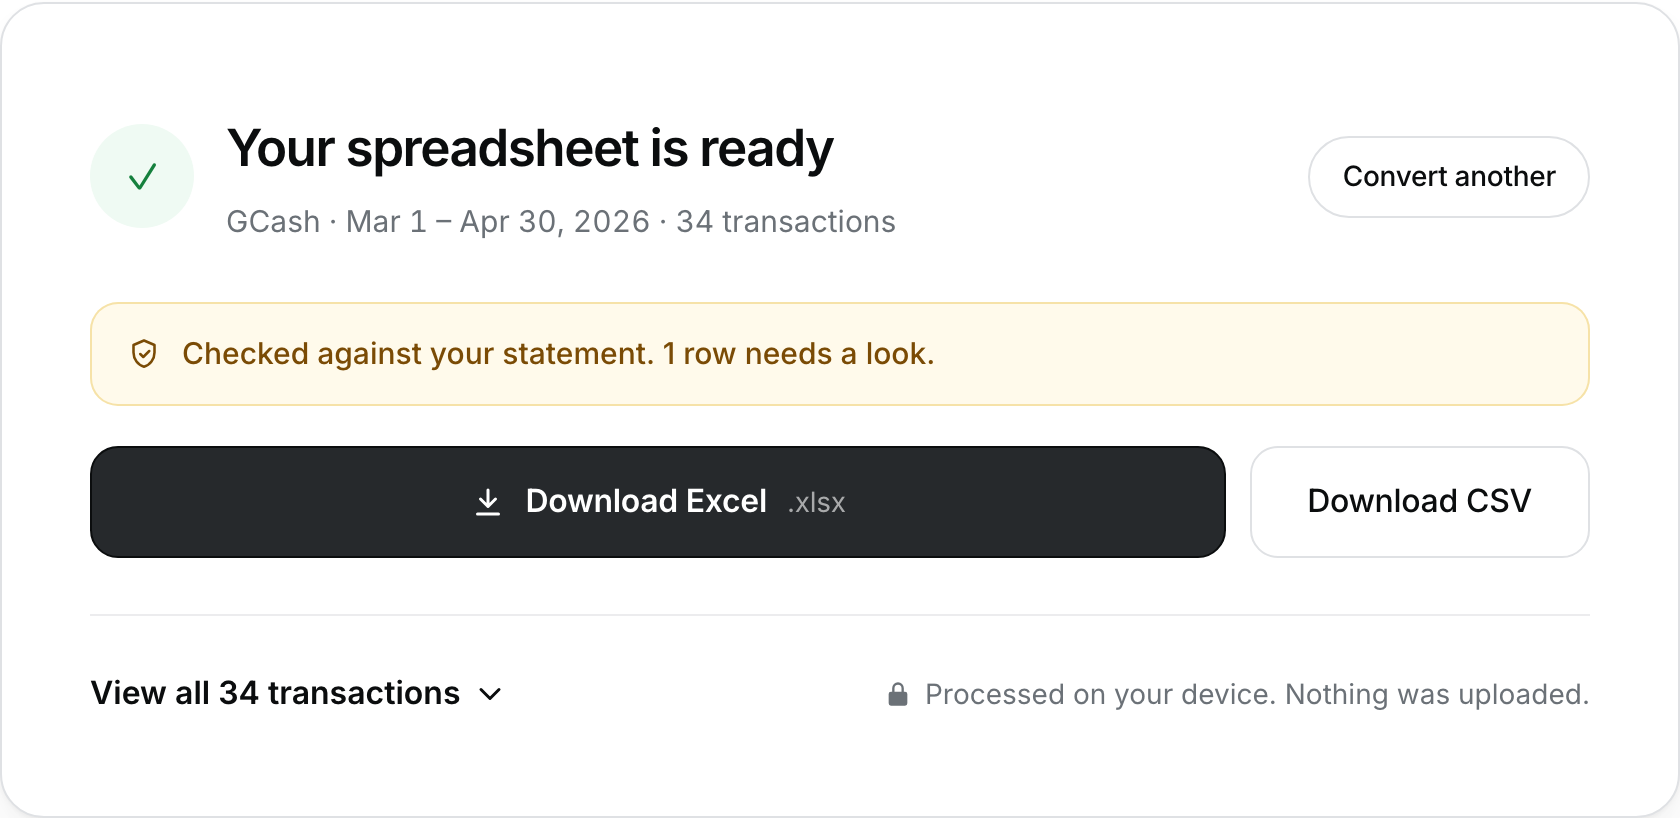
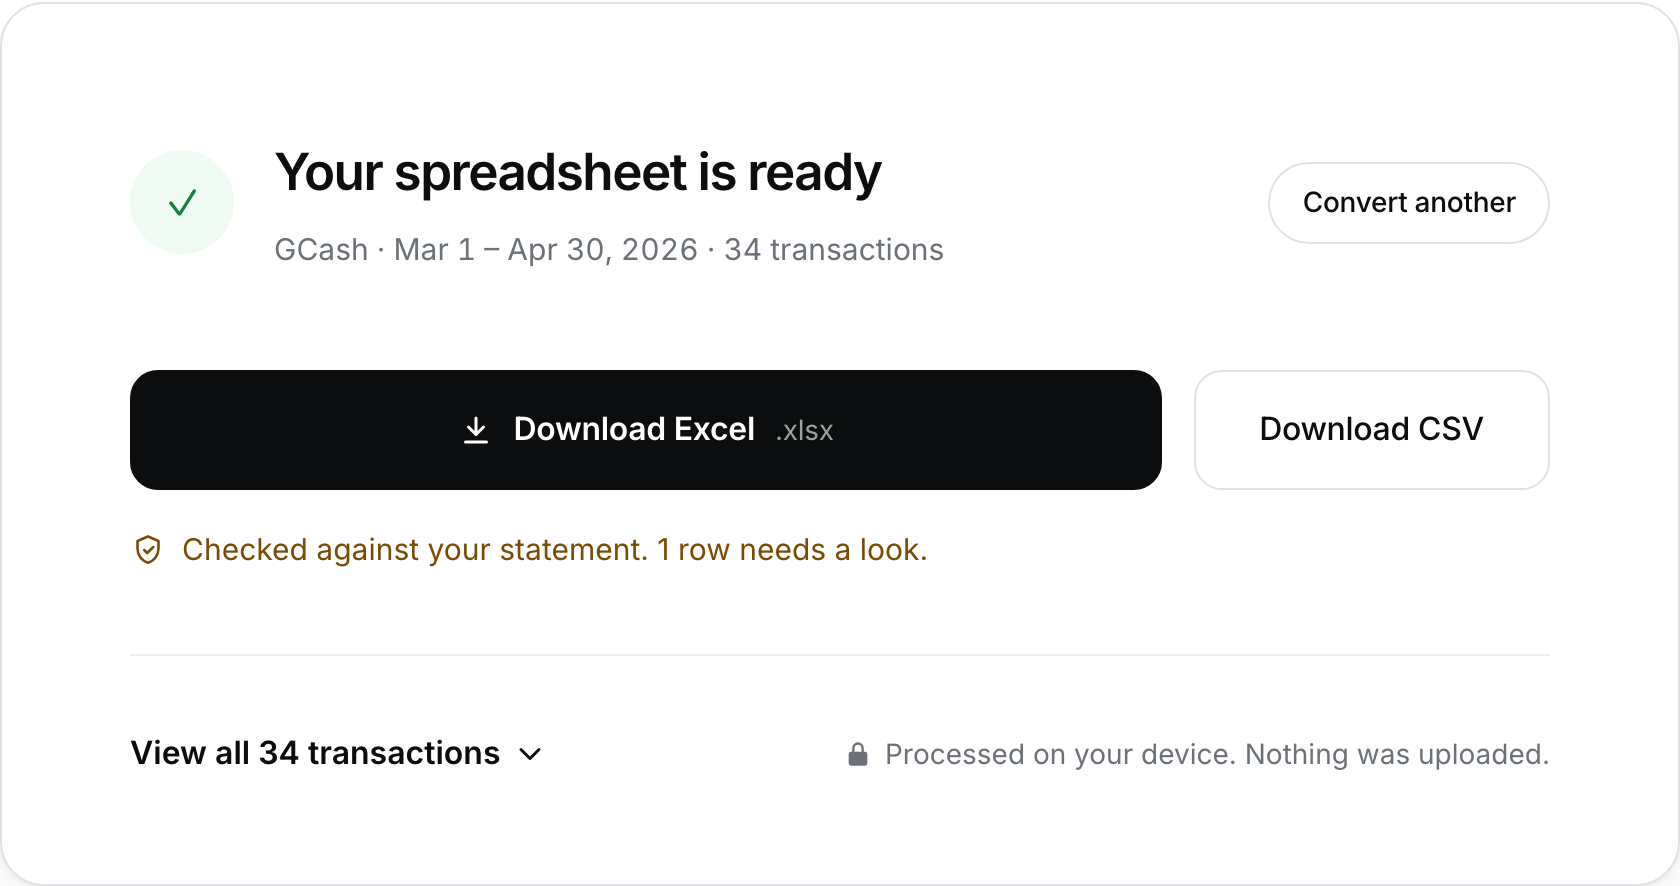
Done card: status as a quiet line under the buttons, airier spacing
Status line uses only a colored icon (green / amber) instead of a filled strip; more space
between header, buttons and footer; larger padding on wide screens. Blog screenshot updated.

diff --git a/src/styles/global.css b/src/styles/global.css
@@ -1883,7 +1883,7 @@ main.page-top {
 .done-head {
   display: flex;
   align-items: center;
-  gap: 16px;
+  gap: 20px;
 }
 .done .done-check {
   flex: none;
@@ -1901,7 +1901,7 @@ main.page-top {
   letter-spacing: -0.03em;
 }
 .done-sub {
-  margin: 4px 0 0;
+  margin: 6px 0 0;
   font-size: 0.9375rem;
   color: var(--muted);
   font-variant-numeric: tabular-nums;
@@ -1915,37 +1915,32 @@ main.page-top {
 .done-status {
   display: flex;
   align-items: center;
-  gap: 10px;
-  margin: 28px 0 0;
-  padding: 14px 18px;
-  border-radius: var(--radius);
+  gap: 8px;
+  margin: 18px 0 0;
   font-size: 0.9375rem;
-  font-weight: 500;
+  color: var(--muted);
 }
 .done-status svg {
   flex: none;
 }
-.done-status.is-ok {
-  background: var(--green-tint);
+.done-status.is-ok svg {
   color: var(--green);
 }
-.done-status.is-warn {
-  background: var(--warn-bg);
+.done-status.is-warn,
+.done-status.is-warn svg {
   color: var(--warn-text);
-  box-shadow: inset 0 0 0 1px var(--warn-line);
 }
-.done-status.is-na {
-  background: var(--subtle);
-  color: var(--muted);
+.done-status.is-na svg {
+  color: var(--faint);
 }
 .done-downloads {
   display: grid;
   grid-template-columns: 1fr auto;
-  gap: 12px;
-  margin-top: 20px;
+  gap: 16px;
+  margin-top: 48px;
 }
 .done-downloads button {
-  min-height: 56px;
+  min-height: 60px;
   border-radius: var(--radius);
   font-size: 1rem;
 }
@@ -1954,7 +1949,7 @@ main.page-top {
   font-weight: 600;
 }
 .done-downloads .btn-secondary {
-  padding: 0 28px;
+  padding: 0 32px;
 }
 .done-downloads .ext {
   font-weight: 400;
@@ -1967,8 +1962,8 @@ main.page-top {
   align-items: center;
   justify-content: space-between;
   gap: 12px 24px;
-  margin-top: 28px;
-  padding-top: 22px;
+  margin-top: 40px;
+  padding-top: 32px;
   border-top: 1px solid var(--line);
 }
 .view-all {
@@ -2011,8 +2006,10 @@ main.page-top {
     justify-self: start;
   }
   .done-status {
-    margin-top: 20px;
     align-items: flex-start;
+  }
+  .done-downloads {
+    margin-top: 32px;
   }
   .done-downloads {
     grid-template-columns: 1fr;
@@ -2020,5 +2017,12 @@ main.page-top {
   .done-foot {
     flex-direction: column;
     align-items: flex-start;
+  }
+}
+
+/* More breathing room around the finished card on larger screens. */
+@media (min-width: 720px) {
+  .panel[data-state="done"] {
+    padding: 64px 64px 48px;
   }
 }
